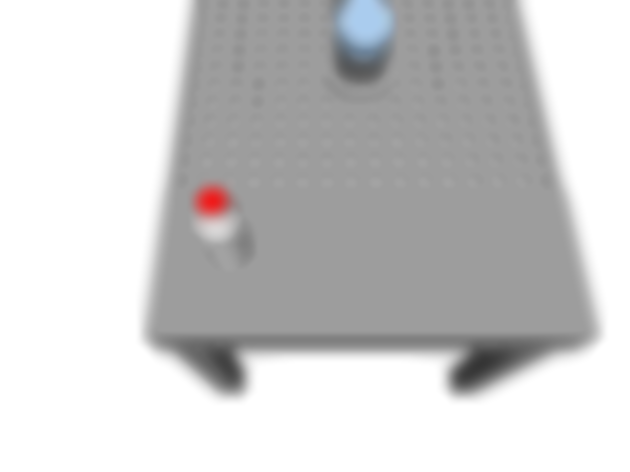
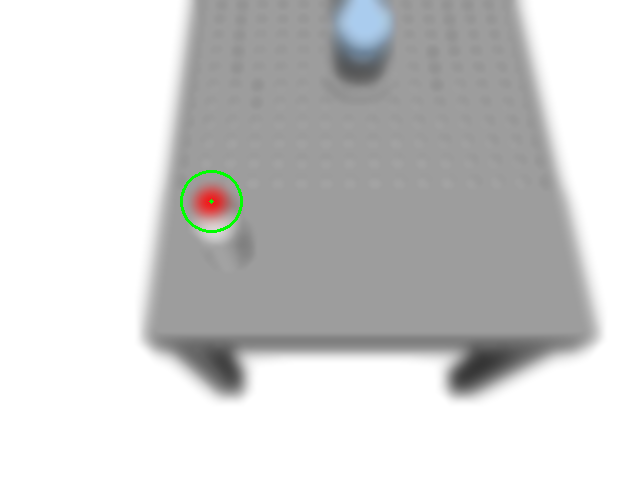
update
sadasd

diff --git a/roviproblems/src/p4_1_M3.cpp b/roviproblems/src/p4_1_M3.cpp
@@ -83,7 +83,7 @@ int test(int noise_iterations, int blur_or_saltpepper, double percentage, std::s
         //cv::circle(left_image, cv::Point(RL_features[1][1], RL_features[1][0]), 1, cv::Scalar(0, 255, 0), cv::FILLED);
         //cv::imshow("Right_Image", right_image);
         //cv::imshow("Left_Image", left_image);
-        if(i == 0)
+        if(i == 4)
         {
             cv::circle(right_image, cv::Point(RL_features[0][1], RL_features[0][0]), 30, cv::Scalar(0, 255, 0), 2);
             cv::circle(left_image, cv::Point(RL_features[1][1], RL_features[1][0]), 30, cv::Scalar(0, 255, 0), 2);

diff --git a/roviproblems/includes/rw_image_handler.hpp b/roviproblems/includes/rw_image_handler.hpp
@@ -107,7 +107,7 @@ std::vector<std::vector<int>> feature2DRightLeftImage(cv::Mat image_right, cv::M
         {
             //std::cout << image_right.at<cv::Vec3b>(i,j) << std::endl;
             cv::Vec3b color = image_right.at<cv::Vec3b>(i,j);
-            if (color[0] <= 10 && color[1] <= 10 && color[2] >= 245)
+            if (color[0] <= 70 && color[1] <= 70 && color[2] >= 150)
             {
                 y_right.push_back(i);
                 x_right.push_back(j);
